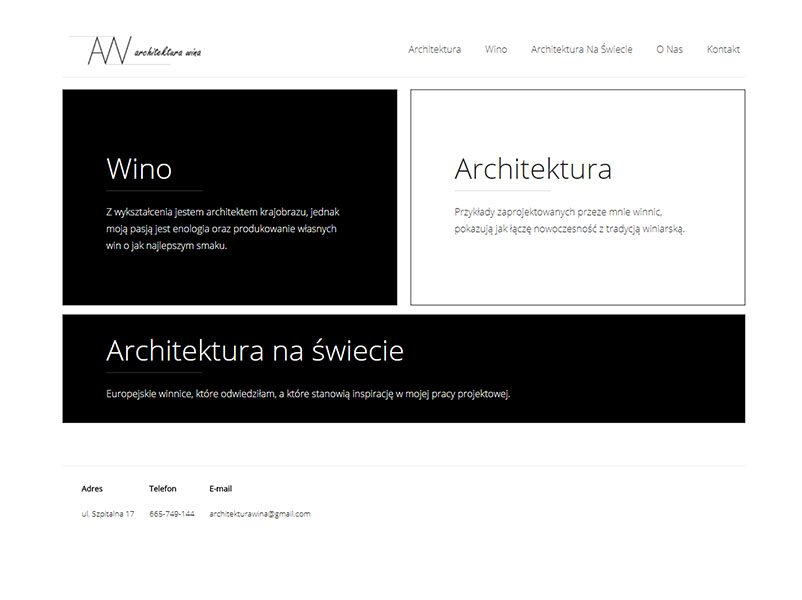
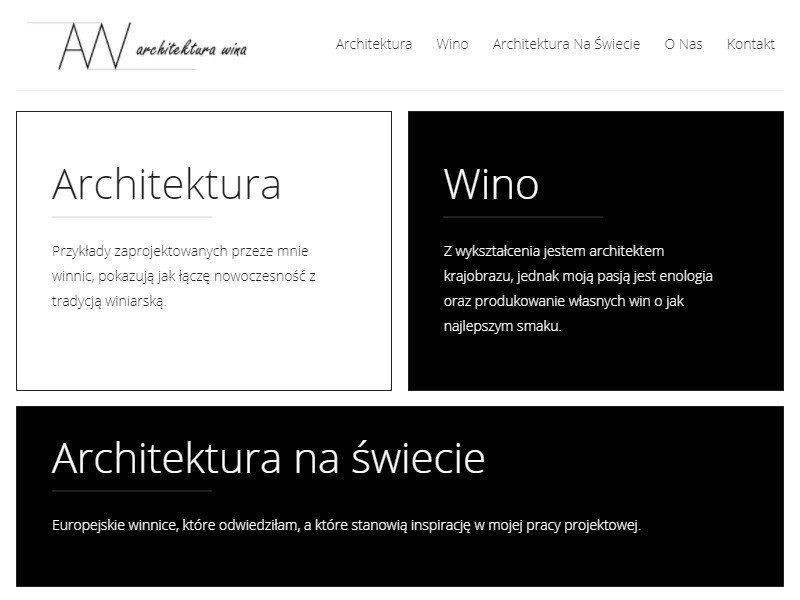
add media queries for typography nad margins

diff --git a/css/main.css b/css/main.css
@@ -19,7 +19,10 @@ body {
 }
 
 @media screen and (max-width: 480px) {
-  html {
+  .portfolio__item__description .title, .title {
+    font-size: 1.5em;
+  }
+  .portfolio__item .description, .description {
     font-size: 1em;
   }
 }
@@ -161,7 +164,6 @@ ul, ol, li, a, p, h1, h2, h3, h4 {
 
 .section__content {
   max-width: 92vw;
-  width: 960px;
   margin: auto;
 }
 
@@ -196,6 +198,18 @@ ul, ol, li, a, p, h1, h2, h3, h4 {
   align-items: center;
 }
 
+@media screen and (max-width: 480px) {
+  .section__content {
+    margin-left: 5%;
+  }
+}
+
+@media screen and (max-width: 1000px) {
+  .section__content {
+    margin-left: 5%;
+  }
+}
+
 .portfolio__item {
   display: flex;
   justify-content: space-between;
@@ -207,7 +221,7 @@ ul, ol, li, a, p, h1, h2, h3, h4 {
 .portfolio__item__image {
   width: 50%;
   max-width: 90%;
-  margin-top: 5%;
+  margin-top: 7%;
   margin-left: 5%;
 }
 
@@ -220,17 +234,18 @@ ul, ol, li, a, p, h1, h2, h3, h4 {
   text-align: left;
   font-size: 1.25em;
   max-width: 100%;
-  margin-top: 5%;
+  margin-top: 7%;
   margin-left: 5%;
   margin-right: 5%;
 }
 
-@media screen and (max-width: 900px) {
+@media screen and (max-width: 975px) {
   .portfolio__item__image {
     width: 90%;
   }
   .portfolio__item__description {
     width: 90%;
+    margin-bottom: 10%;
   }
 }
 
@@ -281,4 +296,4 @@ ul, ol, li, a, p, h1, h2, h3, h4 {
   }
 }
 
[2 lines of base64/hex data omitted]

diff --git a/index.html b/index.html
@@ -59,11 +59,76 @@
               <li class="icons__item"><i class="fab fa-html5"></i></li>
               <li class="icons__item"><i class="fab fa-css3-alt"></i></li>
             </ul>
-            <a href="#" target="_blank">Github source</a>
+            <a href="https://github.com/dagmarad/Architektura-wina" target="_blank">Github source</a>
+        </div>
+      </div>
+      <div class="portfolio__item">
+        <div class="portfolio__item__image">
+          <a href="http://dagmaragruszczynska.pl/dailyexpenseapp/" target="_blank"><img src="img/dailyexpenseapp.jpg" alt="Daily expense App"></a>
+        </div>
+        <div class="portfolio__item__description">
+          <h1 class="title">Daily expense App</h1>
+          <p class="description">Application created with React to calculate your expenses. I used HTML, CSS, React and Bootstrap.</p>
+            <ul class= "icons">
+              <li class="icons__item"><i class="fab fa-html5"></i></li>
+              <li class="icons__item"><i class="fab fa-css3-alt"></i>
+              <li class="icons__item"><i class="fab fa-react"></i></li>
+              
+            </ul>
+            <a href="https://github.com/dagmarad/Daily-Expense-App" target="_blank">Github source</a>
+        </div>
+      </div>
+      <div class="portfolio__item">
+        <div class="portfolio__item__image">
+          <a href="http://dagmaragruszczynska.pl/nasa" target="_blank"><img src="img/nasa.jpg" alt="Nasa"></a>
+        </div>
+        <div class="portfolio__item__description">
+          <h1 class="title">NASA Api challenge</h1>
+          <p class="description">Dynamically generated slider with randomly chosen images provided withJSON API.</p>
+            <ul class= "icons">
+                  
+              <li class="icons__item"><i class="fab fa-html5"></i></li>
+              <li class="icons__item"><i class="fab fa-css3-alt"></i></li>
+              <li class="icons__item"><i class="fab fa-js"></i></li>    
+            </ul>
+            <a href="https://github.com/dagmarad/Nasa-Api-Challenge" target="_blank">Github source</a>
+        </div>
+      </div>
+      <div class="portfolio__item">
+        <div class="portfolio__item__image">
+          <a href="http://dagmaragruszczynska.pl/weddingpage" target="_blank"><img src="img/weddingpage.jpg" alt="Wedding page"></a>
+        </div>
+        <div class="portfolio__item__description">
+          <h1 class="title">Wedding page</h1>
+          <p class="description">Responsive website created with HTML, CSS, JS. Check my JS counter!</p>
+            <ul class= "icons">
+              <li class="icons__item"><i class="fab fa-html5"></i></li>
+              <li class="icons__item"><i class="fab fa-css3-alt"></i>
+                <li class="icons__item"><i class="fab fa-js"></i></li></li>
+            </ul>
+            <a href="https://github.com/dagmarad/Wedding-page" target="_blank">Github source</a>
+        </div>
+      </div>
+      <div class="portfolio__item">
+        <div class="portfolio__item__image">
+          <a href="http://dagmaragruszczynska.pl/portfolio" target="_blank"><img src="img/portfolio.jpg" alt="Portfolio"></a>
+        </div>
+        <div class="portfolio__item__description">
+          <h1 class="title">Portfolio</h1>
+          <p class="description">Previous version of my portfolio created with React.</p>
+            <ul class= "icons">
+              <li class="icons__item"><i class="fab fa-html5"></i></li>
+              <li class="icons__item"><i class="fab fa-css3-alt"></i></li>
+              <li class="icons__item"><i class="fab fa-sass"></i></li>
+              <li class="icons__item"><i class="fab fa-react"></i></li>
+              
+            </ul>
+            <a href="https://github.com/dagmarad/Portfolio" target="_blank">Github source</a>
         </div>
       </div>
     </div>
   </div>
+
 
   <div class="section section--contact" id="contact">
     <div class="section__block  section__block--description">

diff --git a/scss/_portfolio.scss b/scss/_portfolio.scss
@@ -9,10 +9,8 @@
     &__image {
       width:50%;
       max-width: 90%;
-      margin-top:5%;
+      margin-top:7%;
       margin-left:5%;
-      
-
       img {
         max-width: 100%;
       }
@@ -22,20 +20,22 @@
       text-align:left;
       font-size:1.25em;
       max-width: 100%;
-      margin-top:5%;
+      margin-top:7%;
       margin-left:5%;
       margin-right:5%;
       
     }
   }  
 }
-@media screen and (max-width: 900px) {
+@media screen and (max-width: 975px) {
 .portfolio__item {
   &__image{
     width:90%;
   }
   &__description{
     width:90%;
+    margin-bottom:10%;
   }
  }
 }
+

diff --git a/scss/_section.scss b/scss/_section.scss
@@ -6,8 +6,8 @@
   flex-direction: column;
   &__content {
     max-width: 92vw;
-    width: 960px;
     margin: auto;
+      
   }
   &--home &__content {
     padding-top: 16em;
@@ -35,4 +35,14 @@
     align-items: center;
   
   }
+}
+@media screen and (max-width: 480px) {
+    .section__content{
+        margin-left:5%;
+    }
+}
+@media screen and (max-width: 1000px) {
+     .section__content {
+    margin-left: 5%;
+    }
 }

diff --git a/scss/_typography.scss b/scss/_typography.scss
@@ -15,7 +15,11 @@ body {
   font-size:2em;
 }
 @media screen and (max-width: 480px) {
-  html {
-    font-size: 1em;
-  }
+
+ .portfolio__item__description .title, .title {
+  font-size: 1.5em;
+}
+ .portfolio__item .description, .description {
+  font-size: 1em;
+    }
 }
